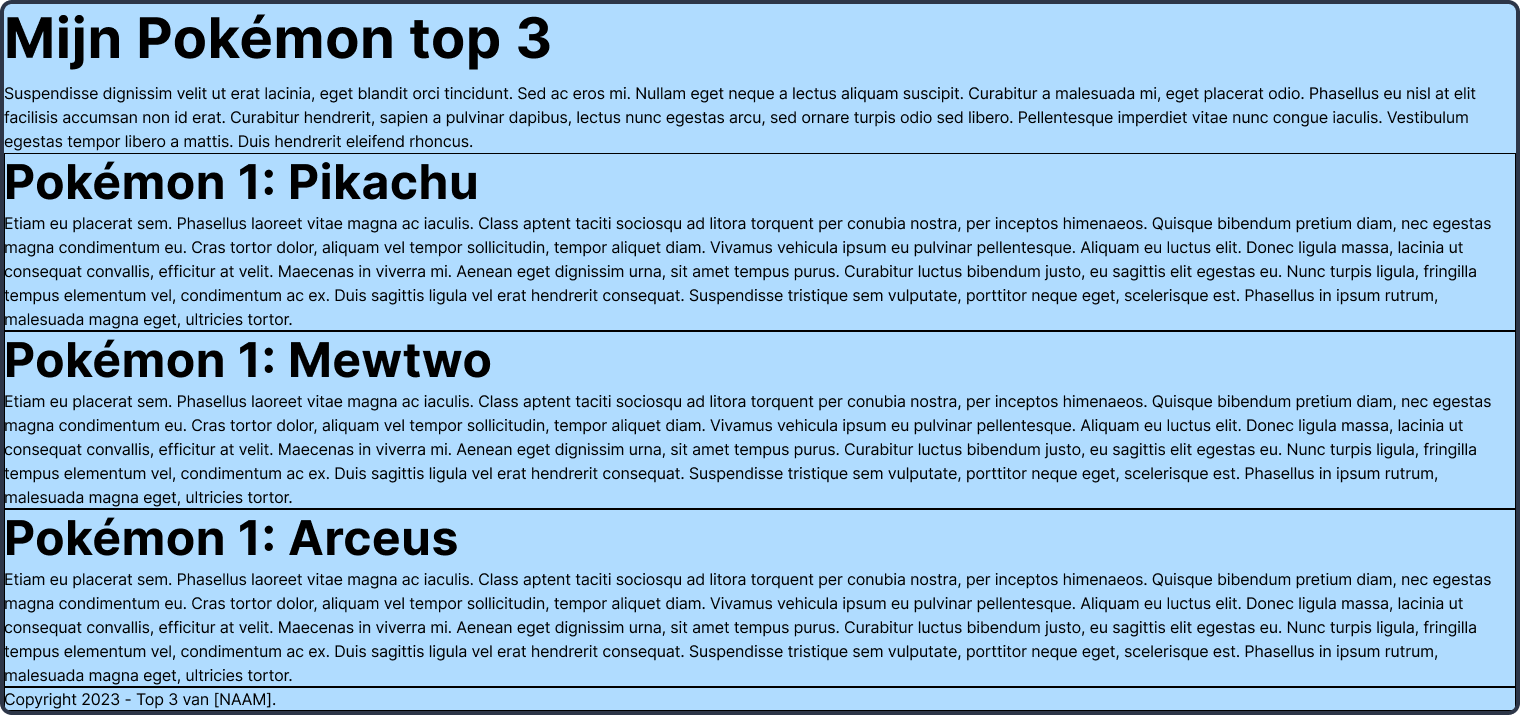
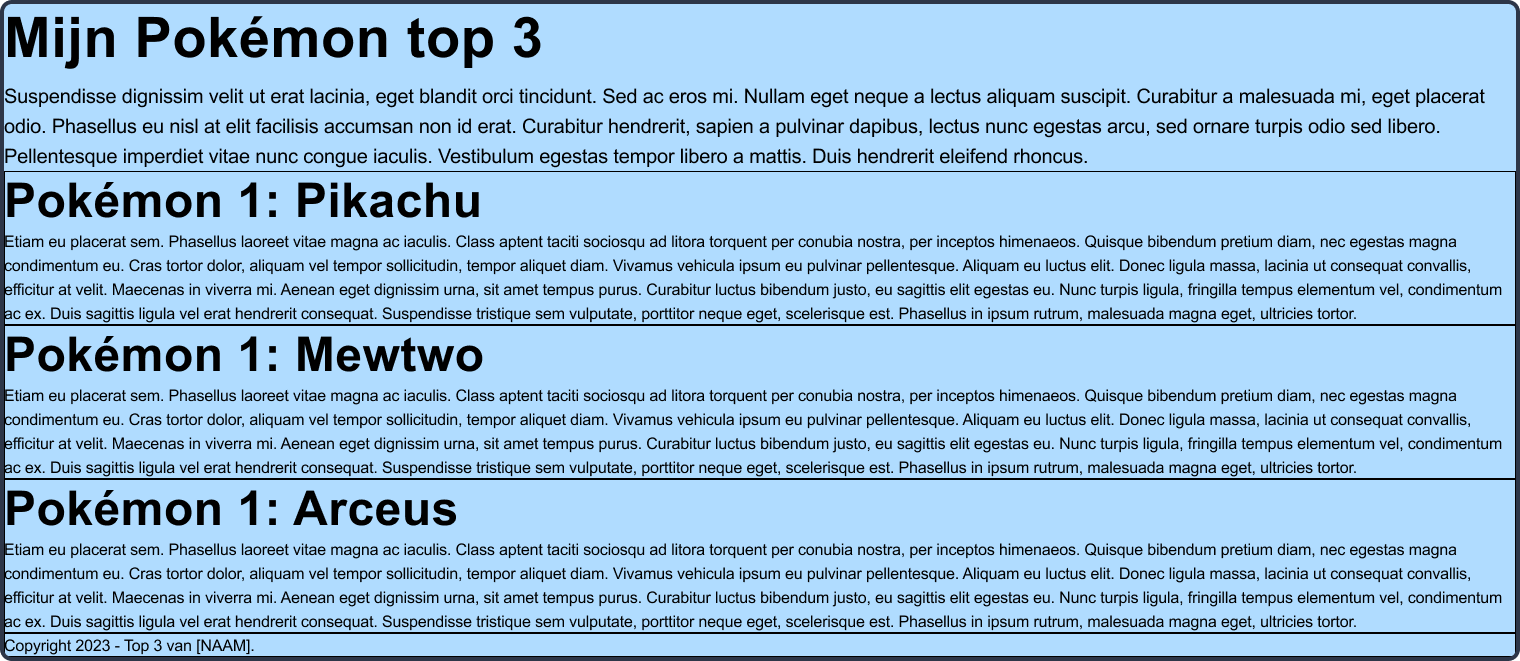
Quiz uitgebreid en toelichting op semantiek

Changed region(s): [[0.0, 0.0, 1.0, 0.9985], [0.9895, 0.2118, 1.0, 0.2421]]

diff --git a/week3-2/README.md b/week3-2/README.md
@@ -4,9 +4,13 @@
 
 **Inhoudsopgave**
 <!-- TOC -->
+
 - [Week 3 les 2](#week-3-les-2)
 - [Inhoud](#inhoud)
-  - [Semantiek](#semantiek)
+  - [Semantische tags](#semantische-tags)
+    - [Waarom semantische tags?](#waarom-semantische-tags)
+    - [Semantische tags voor structuur](#semantische-tags-voor-structuur)
+    - [Valkuil van semantische tags](#valkuil-van-semantische-tags)
   - [Werken met de inspector](#werken-met-de-inspector)
     - [Opdracht inspector](#opdracht-inspector)
   - [Relatieve units](#relatieve-units)
@@ -16,51 +20,93 @@
   - [Opdracht 1 - Semantische HTML](#opdracht-1---semantische-html)
   - [Opdracht 2 - CSS: teksten en kleuren](#opdracht-2---css-teksten-en-kleuren)
   - [Opdracht 3 - CSS: padding \& margin](#opdracht-3---css-padding--margin)
+
 <!-- TOC -->
 
 <br><hr><br>
 
 # Inhoud
 
-## Semantiek
-AANTEKENING: Je mag HTML ***nooit*** gebruiken om een element in de gewenste stijl te krijgen. Dit doe je altijd met CSS. Dus niet `<strong>` gebruiken, omdat het dan dikgedrukt wordt, gebruik het vanwege de semantische betekenis.
+## Semantische tags
+
+Er zijn in totaal meer dan 100 HTML-tags en slechts twee ervan zijn **niet** semantisch: `<div>` en `<span>`. Ze zeggen
+namelijk niets over de soort inhoud die erin staat. Je mag ze dan ook alleen gebruiken wanneer je het puur nodig hebt
+voor de styling van je pagina en er geen semantisch alternatief is.
 
 <br>
 
-**Veelgebruikte semantische tags voor structuur**
-| Tag     | Omschrijving                                                                            |
-| ------- | --------------------------------------------------------------------------------------- |
-| header  | De header (bovenkant) van de pagina.                                                    |
-| main    | De hoofdinhoud van de pagina.                                                           |
-| footer  | De footer (onderkant) van de pagina.                                                    |
-| nav     | Bevat de navigatie van de website.                                                      |
-| section | Is om één sectie van de pagina aan te duiden.                                           |
-| article | Is voor onafhankelijke, op zichzelf staande inhoud, zoals nieuwsberichten en blogposts. |
+### Waarom semantische tags?
+
+Er zijn drie belangrijke redenen waarom je gebruik moet maken van semantische tags:
+
+1. Toegankelijkheid: screenreaders kunnen zo de webpagina beter interpreteren, waardoor slechtzienden een betere
+   ervaring hebben op jouw webpagina;
+2. SEO: dit staat voor Search Engine Optimization, oftewel zo goed mogelijk gevonden worden door zoekmachines, zoals
+   Google;
+3. Leesbaarheid voor developers.
 
 <br>
 
-**Veelgebruikte semantische tags voor content**
-| Tag    | Omschrijving                                                                           | Voorbeeld in HTML                                                                                                         | Eindresultaat                                                                                   |
-| ------ | -------------------------------------------------------------------------------------- | ------------------------------------------------------------------------------------------------------------------------- | ----------------------------------------------------------------------------------------------- |
-| strong | Nadruk leggen op een gedeelte van de tekst, omdat deze belangrijk of urgent is.        | `<p>`Before entering, he read the warning at the entrance: `<strong>`Caution! Fire-breathing dragon ahead.`</strong></p>` | Before entering, he read the warning at the entrance: **Caution! Fire-breathing dragon ahead.** |
-| em     | Wanneer je op een gedeelte van de tekst verbaal de nadruk wilt leggen, vaak één woord. | `<p>`This will be `<em>`very`</em>` dangerous.`</p>`                                                                      | This will be *very* dangerous.                                                                  |
+### Semantische tags voor structuur
 
+Hieronder volgt een lijstje met semantische tags die je gebruikt om structuur aan de pagina te geven. Dit zijn niet alle
+tags, maar wel de veel voorkomende.
+
+| Tag         | Omschrijving                                                                                                                                                                                                                                                                                                                                                                                                                                                                                                                                                                     |
+| ----------- | -------------------------------------------------------------------------------------------------------------------------------------------------------------------------------------------------------------------------------------------------------------------------------------------------------------------------------------------------------------------------------------------------------------------------------------------------------------------------------------------------------------------------------------------------------------------------------- |
+| `<header>`  | Definieert inhoud die moet worden beschouwd als de inleidende informatie van een pagina of sectie                                                                                                                                                                                                                                                                                                                                                                                                                                                                                |
+| `<nav>`     | Wordt gebruikt voor navigatielinks, oftewel het menu. Het kan worden geplaatst binnen de `<header>`, maar mag ook daarbuiten worden geplaatst. Nagenoeg iedere webpagina heeft een hoofdmenu, maar soms heb je ook een secundair menu, bijvoorbeeld in de `<footer>`                                                                                                                                                                                                                                                                                                             |
+| `<main>`    | Bevat de hoofdinhoud van een pagina. Hiervan mag er slechts één tag per pagina zijn.                                                                                                                                                                                                                                                                                                                                                                                                                                                                                             |
+| `<footer>`  | Je gebruikt `<footer>` altijd onderaan een pagina. Het is de afsluiter van de pagina en bevat meestal contactgegevens, copyrightinformatie en wat sitenavigatie.                                                                                                                                                                                                                                                                                                                                                                                                                 |
+| `<section>` | Je gebruikt `<section>` om een webpagina op te splitsen in afzonderlijke secties met gerelateerde inhoud. Dus stel, je hebt een webpagina die gaat over jouw ervaring met een game, dan zou een sectie kunnen gaan over de graphics en een andere over de gameplay; twee verschillende onderwerpen, maar gerelateerd aan elkaar, omdat het over dezelfde game gaat.                                                                                                                                                                                                              |
+| `<article>` | In tegenstelling tot `<section>` gebruik je `<article>` om een op zichzelf staand stukje content weer te geven, die juist ***niet*** gerelateerd is aan het hoofdonderwerp. Het is bedoeld om onafhankelijk verspreid te kunnen worden door de website of herbruikbaar te zijn. Voorbeelden hiervan zijn: een forumbericht, een tijdschrift- of krantenartikel, of een blogbericht, een productkaart, een door een gebruiker ingediende opmerking, een interactieve widget of gadget, of enig ander onafhankelijk inhoudsitem.                                                   |
+| `<aside>`   | Wordt gebruikt om content weer te geven die indirect gerelateerd is aan de hoofdinhoud van de `<section>` of `<article>`waarin die geplaatst is. Ook kan die daarbuiten worden geplaatst, bijvoorbeeld direct in de `<body>`, dan moet de content gerelateerd zijn aan de website zelf, bijvoorbeeld tweets van de auteur, aanvullende navigatie, laatste blogberichten, laatste opmerkingen, etc. Een `<aside>` wordt vaak weergegeven als zijbalk, maar dit zal handmatig moeten worden bereikt met CSS. [Lees meer](https://aastudio.fr/Sidebar-and-Aside-are-different.html) |
+
+> ⚠ Let op: de tag `<div>` is dus ***niet*** semantisch. Je mag hem wel gebruiken binnen semantische tags
+> als `<section>`, maar niet ter vervanging ervan.
+
+<br>
+
+### Valkuil van semantische tags
+
+De grote valkuil van het gebruiken van semantische tags, is dat je ze gebruikt voor het uiterlijk dat ze standaard
+hebben. Zo is een `<h1>` standaard groter dan een `<h6>`, dus de valkuil is om de heading te gebruiken die het meest
+past bij het uiterlijk dat jij zoekt, maar dat is dus niet de bedoeling. Dus onthoudt:
+
+> ⚠ Je mag een tag *nooit* gebruiken, vanwege het standaard uiterlijk. ***Nooit!***
+
+Wanneer mag je een tag dan wel gebruiken? Wanneer het de type content representeert die het moet zijn. Is het de
+hoofdtitel? Dan gebruik je `<h1>`. Is het de titel daaronder? Dan gebruik je `<h2>`, etc.
+<br><br>
+De volgende twee tags worden ook vaak "misbruikt" vanwege het standaard uiterlijk die ze krijgen:
+
+| Tag        | Omschrijving                                                                                                                                                                                                                              | Voorbeeld in HTML                                                                                                                       | Eindresultaat                                                                                                 |
+| ---------- | ----------------------------------------------------------------------------------------------------------------------------------------------------------------------------------------------------------------------------------------- | --------------------------------------------------------------------------------------------------------------------------------------- | ------------------------------------------------------------------------------------------------------------- |
+| `<strong>` | Nadruk leggen op een gedeelte van de tekst, omdat deze belangrijk of urgent is.                                                                                                                                                           | `<p>`Voordat hij naar binnen ging, las hij de waarschuwing bij de ingang: `<strong>`Let op! Vuurspuwende draak verderop.`</strong></p>` | Voordat hij naar binnen ging, las hij de waarschuwing bij de ingang: **Let op! Vuurspuwende draak verderop.** |
+| `<em>`     | Wanneer je op een gedeelte van de tekst verbaal de nadruk wilt leggen, vaak één woord. Deze is ook gebruikt in de waarschuwing die boven deze tabel is gegeven over dat je een tag *nooit* mag gebruiken vanwege het standaard uiterlijk. | `<p>`Dit zal `<em>` heel`</em>` erg gevaarlijk worden.`</p>`                                                                            | Dit zal *heel* erg gevaarlijk worden.                                                                         |
 
 <br><hr><br>
 
 ## Werken met de inspector
 
-- Open de inspector op een specifiek HTML-element door met de rechter muistoets op dat element te klikken en vervolgens op **Inspecteren**;
-  - Ook is de inspector te openen met de sneltoets ⌥⌘i op Mac en F12 op Windows;
-- Van het geselecteerde element zie je ook alle bijbehorende CSS staan. Deze CSS is in de inspector aan te passen en dit is dan direct zichtbaar in de browser. Zo kan je spelen met de waardes en real-time wijzingen zien om het ontwerp te bepalen. Dit noemen we `Designing in the browser`;
-  -  **Let op:** wanneer je CSS in de inspector wijzigt, verandert het ***niet*** in de bestanden in Visual Studio Code. Dit moet je handmatig wijzigen;
+- Open de inspector op een specifiek HTML-element door met de rechter muistoets op dat element te klikken en vervolgens
+  op **Inspecteren**;
+    - Ook is de inspector te openen met de sneltoets ⌥⌘i op Mac en F12 op Windows;
+- Van het geselecteerde element zie je ook alle bijbehorende CSS staan. Deze CSS is in de inspector aan te passen en dit
+  is dan direct zichtbaar in de browser. Zo kan je spelen met de waardes en real-time wijzingen zien om het ontwerp te
+  bepalen. Dit noemen we `Designing in the browser`;
+    - **Let op:** wanneer je CSS in de inspector wijzigt, verandert het ***niet*** in de bestanden in Visual Studio
+      Code. Dit moet je handmatig wijzigen;
 
 <img src="./images/designing.png" alt="Inspector" title="Inspector" width="800">
 
 <br>
 
 ### Opdracht inspector
-Nu je weet hoe je de inspector opent, wordt het tijd om deze te gaan gebruiken. Ga naar een website die jij vaak bezoekt. Deze kan over jouw hobby gaan, maar het kan ook die van een supermarkt zijn, dat maakt niet uit. Open de inspector en voer de volgende opdrachten daarin uit:
+
+Nu je weet hoe je de inspector opent, wordt het tijd om deze te gaan gebruiken. Ga naar een website die jij vaak
+bezoekt. Deze kan over jouw hobby gaan, maar het kan ook die van een supermarkt zijn, dat maakt niet uit. Open de
+inspector en voer de volgende opdrachten daarin uit:
 
 1. Pas van minimaal 3 teksten de kleur aan;
 2. Pas van minimaal 3 teksten het lettertype aan;
@@ -76,18 +122,16 @@ Nu je weet hoe je de inspector opent, wordt het tijd om deze te gaan gebruiken. 
 <br><hr><br><br><br><br><br>
 
 # Quiz over semantische HTML
+
 [Klik hier om de quiz over semantische HTML te doen](./quiz/)
 
 <br><hr><br><br><br><br><br>
-
 
 # Mini-oefeningen - Padding & margin
 
 [Klik hier om de naar de mini-oefeningen te gaan.](./mini-oefeningen/padding-margin)
 
-
 <br><hr><br><br><br><br><br>
-
 
 # Opdracht: Top 3
 
@@ -97,16 +141,18 @@ Maak in het project waar jij de lesopdrachten in maakt eerst een nieuwe map aan 
 <br>
 Bouw vervolgens het volgende ontwerp na (klik op de afbeelding om te vergroten).
 <br>
-Je mag je eigen top 3 bedenken, maar gebruik verder testteksten. De focus ligt in deze opdracht **niet** op de inhoud, maar op de code.
+Je mag je eigen top 3 bedenken, maar gebruik verder testteksten. De focus ligt in deze opdracht **niet** op de inhoud,
+maar op de code.
 
 <img src="./images/Opdracht1.png" alt="Opdracht 1" title="Opdracht 1" width="800">
 
 <br>
 
->Denk nog even terug aan de wireframe die je gezien hebt tijdens de CMGT-dag, met daarin de basisstructuur van een webpagina. Voor deze opdracht heb je alleen de `nav` niet nodig, de rest wel.
+> Denk nog even terug aan de wireframe die je gezien hebt tijdens de CMGT-dag, met daarin de basisstructuur van een
+> webpagina. Voor deze opdracht heb je alleen de `nav` niet nodig, de rest wel.
 > <br>
 > <br>
-><img src="./images/Basisstructuur-HTML.jpg" alt="Wireframe basisstructuur" title="Wireframe basisstructuur" width="300">
+> <img src="./images/Basisstructuur-HTML.jpg" alt="Wireframe basisstructuur" title="Wireframe basisstructuur" width="300">
 
 <br>
 
@@ -123,7 +169,6 @@ Je hebt hier het volgende voor nodig:
 | p       |     |                   |
 | a       |     |                   |
 
-
 <br><hr><br>
 
 ## Opdracht 2 - CSS: teksten en kleuren
@@ -131,25 +176,25 @@ Je hebt hier het volgende voor nodig:
 Bouw het volgende ontwerp na (klik op de afbeelding om te vergroten).
 
 <img src="./images/Opdracht2.png" alt="Opdracht 2" title="Opdracht 2" width="800">
-  
+
   <br>
-  
-  Je hebt hier het volgende voor nodig:
-  
-  | HTML | CSS                    | Gebruikte kleuren |
-  | ---- | ---------------------- | ----------------- |
-  | -    | Selectors o.b.v. tag   | #B0DCFF           |
-  |      | Selectors o.b.v. class | #000000           |
-  |      | font-family            |                   |
-  |      | color                  |                   |
-  |      | background-color       |                   |
-  |      | text-align             |                   |
-  |      | border                 |                   |
+
+Je hebt hier het volgende voor nodig:
+
+| HTML | CSS                    | Gebruikte kleuren |
+| ---- | ---------------------- | ----------------- |
+| -    | Selectors o.b.v. tag   | #B0DCFF           |
+|      | Selectors o.b.v. class | #000000           |
+|      | font-family (Arial)    |                   |
+|      | font-size              |                   |
+|      | color                  |                   |
+|      | background-color       |                   |
+|      | border                 |                   |
 
 <br>
 
 
->### Kleuren bepalen
+> ### Kleuren bepalen
 >
 >Elementen hebben een tekstkleur en een achtergrondkleur. Deze kan je op verschillende manieren bepalen:
 >
@@ -182,8 +227,9 @@ Bouw het volgende ontwerp na (klik op de afbeelding om te vergroten).
 
 Je hebt hier het volgende voor nodig:
 
-| HTML | CSS     | Gebruikte kleuren |
-| ---- | ------- | ----------------- |
-| -    | padding | -                 |
-|      | margin  |                   |
+| HTML | CSS        | Gebruikte kleuren |
+| ---- | ---------- | ----------------- |
+| -    | padding    | -                 |
+|      | margin     |                   |
+|      | text-align |                   |
 

diff --git a/week3-2/quiz/antwoorden/README.md b/week3-2/quiz/antwoorden/README.md
@@ -1,9 +1,10 @@
 # Antwoordmodel quiz - Semantische HTML
 
-| Vraag | Antwoord + toelichting                                                                                                                                                                                                                                                                                                                                                                                                                           |
-|-------|--------------------------------------------------------------------------------------------------------------------------------------------------------------------------------------------------------------------------------------------------------------------------------------------------------------------------------------------------------------------------------------------------------------------------------------------------|
-| 1     | ❌ A. In dit voorbeeld wordt <div> puur gebruikt voor de styling van de pagina, dus dat mag. Het staat namelijk al netjes in een <section> die de introductie van de pagina representeert.<br><br>✅ B. Deze sectie van de pagina staat al netjes in een`<section>`, dus daarbinnen mag je`<div>` gebruiken als het puur voor de styling nodig is en geen inhoudelijke waarde heeft.                                                               |
-| 2     | ❌ A. De `<nav>` mag zowel in als buiten de `<header>` staan. <br><br>✅ B. Omdat de `<div>` in dit geval een nieuwe sectie aanduidt, moet het een `<section>` zijn.<br><br>❌ C. De `<h1>` hoeft niet in de `<header>` te staan, maar moet wel hiërarchisch gebruikt worden met de andere headings.<br><br>❌ D. Je kan op iedere HTML-tag een id instellen.<br><br>✅ E. De hoofdcontent van de pagina moet altijd in de `<main>` worden geplaatst. |
+| Vraag | Antwoord + toelichting                                                                                                                                                                                                                                                                                                                                                                                                                                                                                           |
+|-------|------------------------------------------------------------------------------------------------------------------------------------------------------------------------------------------------------------------------------------------------------------------------------------------------------------------------------------------------------------------------------------------------------------------------------------------------------------------------------------------------------------------|
+| 1     | ❌ A. De volgorde van elementen wordt simpelweg bepaald door de volgorde die je in het HTML-document aanhoudt.<br><br>❌ B. Hoewel sommige semantische HTML-tags van zichzelf een andere vormgeving hebben, is dit niet de reden dat je ze gebruikt.<br><br>✅ C. Door semantische HTML-tags te gebruiken geef je aan wat voor soort inhoud erin zit. Zo weet je bijvoorbeeld dat in een `<nav>` het menu staat, dat een `<h1>` de hoofdtitel is en dat in `<strong>` een stuk tekst staat die extra belangrijk is. |
+| 2     | ✅ B. Deze sectie van de pagina staat al netjes in een `<section>`, dus daarbinnen mag je `<div>` gebruiken als het puur voor de styling nodig is en geen inhoudelijke waarde heeft.                                                                                                                                                                                                                                                                                                                              |
+| 3     | ❌ A. De `<nav>` mag zowel binnen als buiten de `<header>` staan. <br><br>✅ B. Omdat de `<div>` in dit geval een nieuwe sectie van de pagina aanduidt, moet het een `<section>` zijn.<br><br>❌ C. De `<h1>` hoeft niet in de `<header>` te staan, maar moet wel hiërarchisch gebruikt worden met de andere headings.<br><br>❌ D. Je kan op iedere HTML-tag een id instellen.<br><br>✅ E. De hoofdcontent van de pagina moet altijd in de `<main>` worden geplaatst.                                               |
 
 <br><hr>
 

diff --git a/week3-2/quiz/README.md b/week3-2/quiz/README.md
@@ -2,7 +2,7 @@
 
 Dit is een quiz over semantische HTML.
 <br>
-Noteer voor jezelf het antwoord per vraag. Later deze les worden de antwoorden online gezet. Vergelijk dan zelf jouw antwoorden met het antwoordmodel.
+Noteer voor jezelf jouw antwoord per vraag. Later deze les wordt het antwoordmodel online gezet. Vergelijk dan zelf jouw antwoorden hiermee.
 <br><br>
 
 >⚠ Vul deze quiz de komende dagen zo vaak in als je wilt. Blijf hem herhalen, totdat je alles begrijpt.
@@ -11,11 +11,23 @@ Noteer voor jezelf het antwoord per vraag. Later deze les worden de antwoorden o
 
 ## Vraag 1
 
+Wat zijn semantische HTML-tags?
+
+A. Tags die de volgorde van de pagina bepalen.
+<br>
+B. Tags die aangeven hoe een element eruit moet zien.
+<br>
+C. Tags die de betekenis van de inhoud die ze bevatten definiëren.
+
+<br><hr><br>
+
+## Vraag 2
+
 Geef aan of de volgende stelling klopt: In onderstaande HTML moet op regel 3 en 6 `<div>` naar `<section>` worden omgezet.
 
 ```html
 1.  <main>
-2.      <section id="introduction">
+2.      <section id="hobbies">
 3.          <div class="left-column">
 4.              <h1>Welkom op mijn website</h1>
 5.          </div>
@@ -32,9 +44,41 @@ B. Niet waar
 
 <br><hr><br>
 
-## Vraag 2
+## Vraag 3
 
 Wat is semantisch gezien incorrect in de volgende HTML?
+<br>*Meerdere antwoorden mogelijk.*
+
+```html
+1.  <header>
+2.      <nav>
+3.          <a href="#introduction">Introductie</a>
+4.      </nav>
+5.  </header>
+6.  
+7.  <section>
+8.      <div id="introduction">
+9.          <h1>Welkom op mijn website</h1>
+10.         <p>Mijn naam is...</p>
+11.     </div>
+12. </section>
+```
+
+A. De `<nav>` mag niet in de `<header>` staan
+<br>
+B. De `<div>` op regel 8 moet een `<section>` zijn
+<br>
+C. De `<h1>` moet altijd in de `<header>` staan
+<br>
+D. De id moet ingesteld staan op de `<h1>` in plaats van de `<div>`
+<br>
+E. De `<section>` op regel 7 moet in een `<main>` worden geplaatst.
+
+<br><hr><br>
+
+## Vraag 4
+
+....
 <br>*Meerdere antwoorden mogelijk.*
 
 ```html
